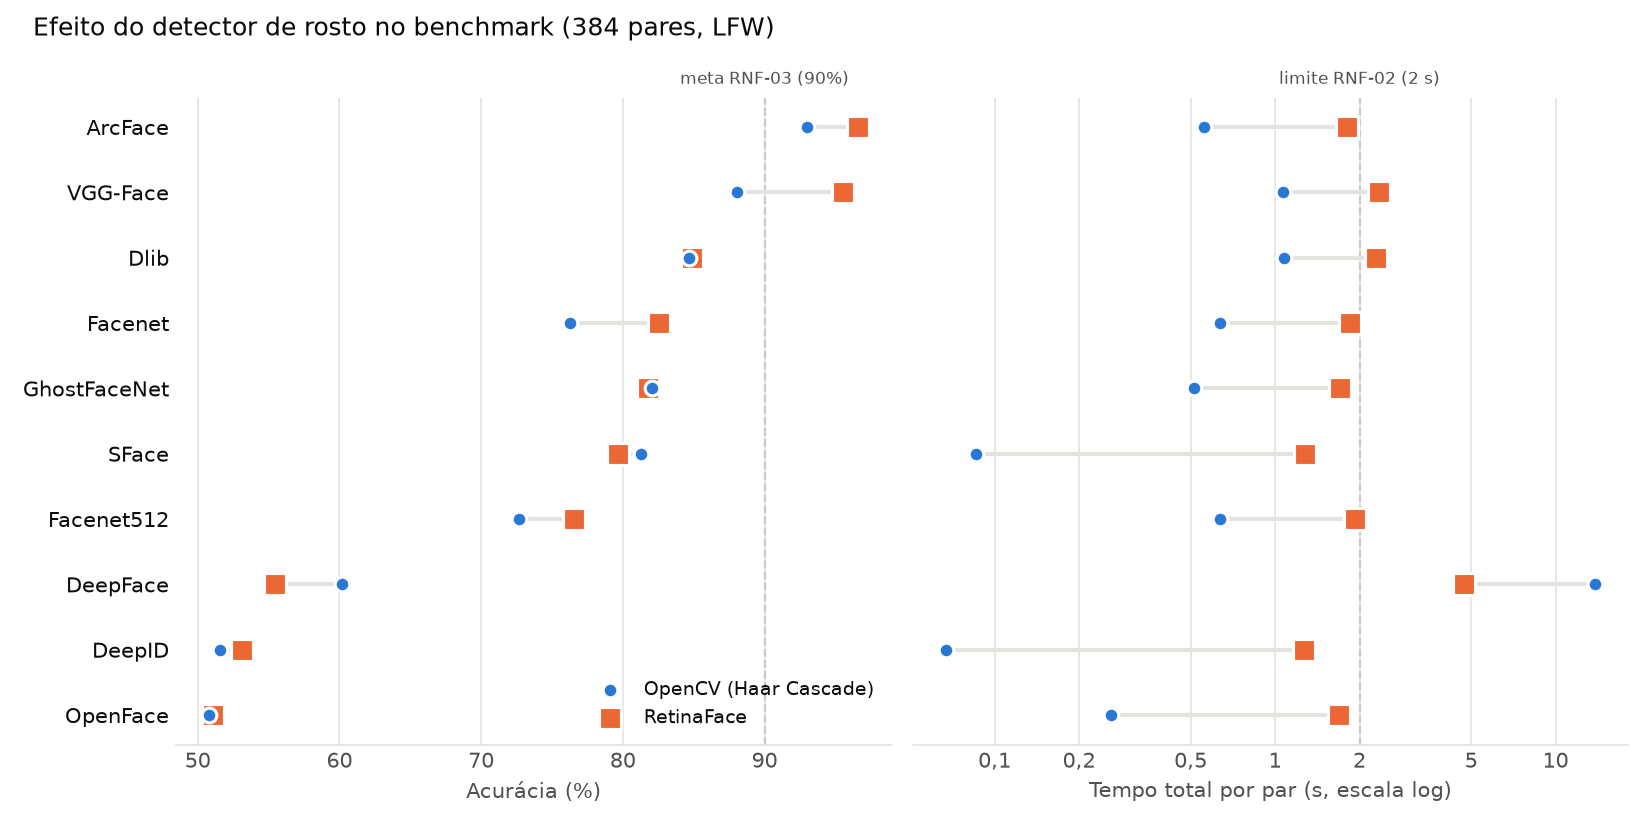
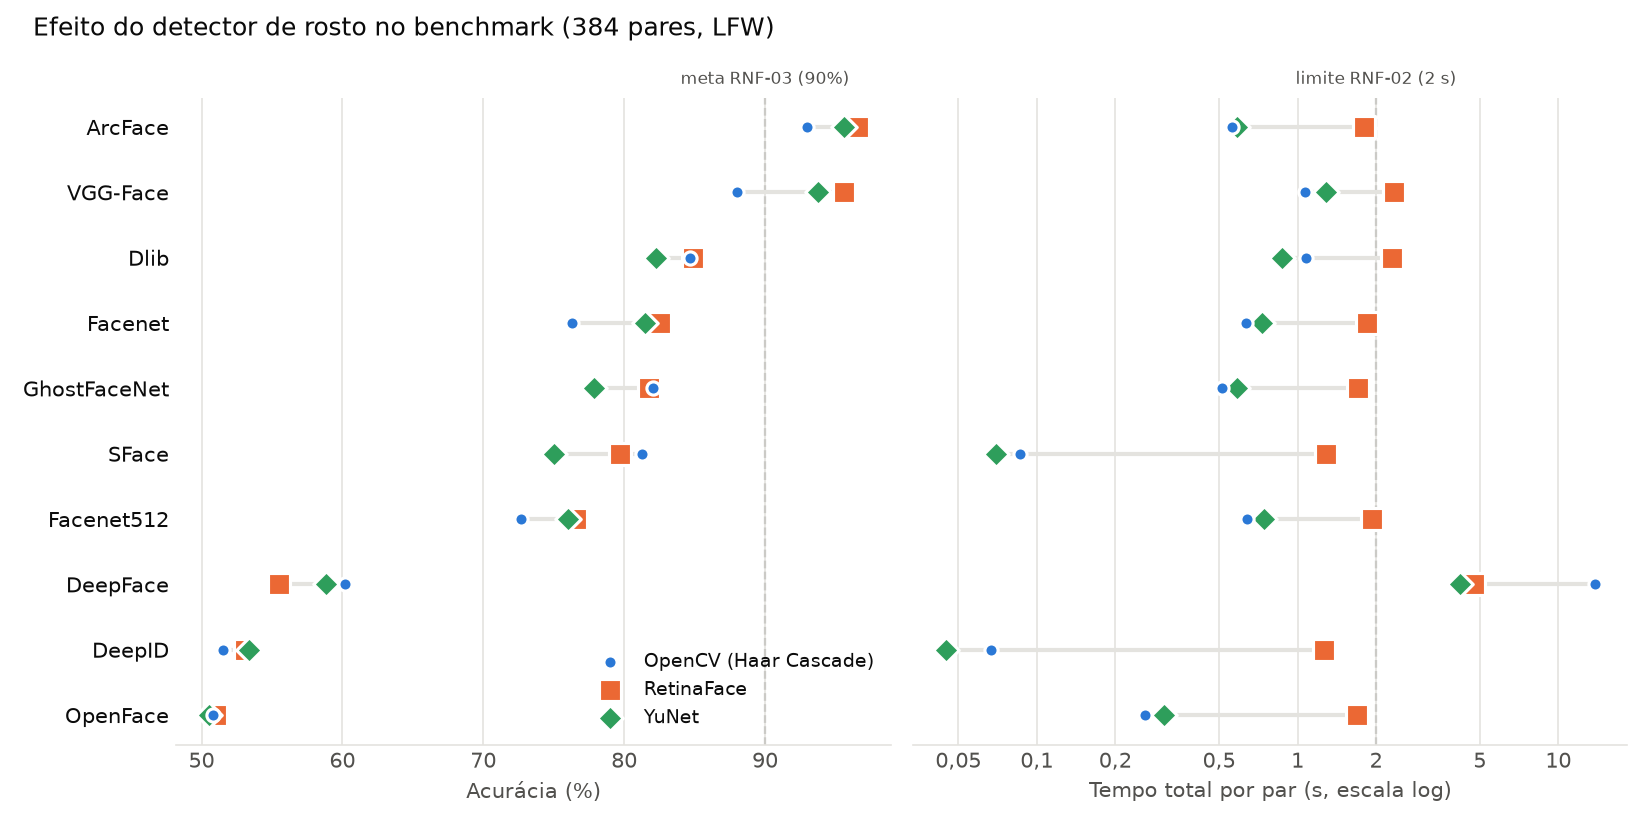
Testa o detector YuNet no benchmark e compara os três detectores
Com o limiar padrão do DeepFace (0,9), o YuNet perdia 10% dos rostos
porque o DeepFace põe uma borda preta de 50% em volta das fotos pequenas
do LFW. O script passa a usar 0,5, o valor do artigo do YuNet. A
comparação de detectores agora inclui o YuNet, e a rodada com 0,9 fica
guardada como registro.

diff --git a/pesquisa/comparar_detectores.py b/pesquisa/comparar_detectores.py
@@ -1,7 +1,7 @@
 """
-Comparacao de detectores de rosto (OpenCV x RetinaFace) no benchmark - TCC
+Comparacao de detectores de rosto (OpenCV x RetinaFace x YuNet) no benchmark - TCC
 
-Junta as rodadas feitas com --cache_deteccao (mesma metodologia para os dois
+Junta as rodadas feitas com --cache_deteccao (mesma metodologia para todos os
 detectores: deteccao uma vez por imagem, mesmos 384 pares do LFW, tempo de
 deteccao medido a parte) e gera, em pesquisa/resultados/:
     - benchmark_comparacao_detectores.csv -> uma linha por modelo, com
@@ -44,7 +44,13 @@ DETECTORES = {
         "benchmark_resultados_retinaface.csv",
         "benchmark_resultados_retinaface_deepface.csv",
     ),
+    "yunet": (
+        "benchmark_resultados_yunet.csv",
+        "benchmark_resultados_yunet_deepface.csv",
+    ),
 }
+# Detector que define a ordem dos modelos na tabela e no grafico.
+DETECTOR_ORDENACAO = "retinaface"
 SAIDA_CSV = PASTA_RESULTADOS / "benchmark_comparacao_detectores.csv"
 SAIDA_PNG = PASTA_RESULTADOS / "benchmark_comparacao_detectores.png"
 
@@ -55,9 +61,12 @@ LIMITE_TEMPO_S = 2.0  # RNF-02
 # O verify detecta as duas imagens do par.
 IMAGENS_POR_PAR = 2
 
-COR = {"opencv": "#2a78d6", "retinaface": "#eb6834"}
-MARCADOR = {"opencv": "o", "retinaface": "s"}
-ROTULO = {"opencv": "OpenCV (Haar Cascade)", "retinaface": "RetinaFace"}
+COR = {"opencv": "#2a78d6", "retinaface": "#eb6834", "yunet": "#2e9e5b"}
+MARCADOR = {"opencv": "o", "retinaface": "s", "yunet": "D"}
+ROTULO = {"opencv": "OpenCV (Haar Cascade)", "retinaface": "RetinaFace", "yunet": "YuNet"}
+# Marcadores maiores por baixo e menores por cima: quando os valores
+# coincidem, todos continuam visiveis. (tamanho, zorder)
+CAMADA = {"retinaface": (110, 3), "yunet": (75, 4), "opencv": (40, 5)}
 COR_TEXTO, COR_TEXTO_SECUNDARIO, COR_GRADE = "#0b0b0b", "#52514e", "#e4e3df"
 MARCAS_TEMPO_S = [0.05, 0.1, 0.2, 0.5, 1, 2, 5, 10, 20]
 
@@ -101,7 +110,7 @@ def montar_comparacao() -> "pd.DataFrame":
             )
         )
     comparacao = pd.concat(partes, axis=1).reset_index()
-    return comparacao.sort_values("acuracia_retinaface", ascending=False)
+    return comparacao.sort_values(f"acuracia_{DETECTOR_ORDENACAO}", ascending=False)
 
 
 def _estilizar_eixo(ax, titulo_x: str) -> None:
@@ -118,7 +127,7 @@ def gerar_grafico(comparacao: "pd.DataFrame", caminho: Path) -> None:
     import matplotlib.pyplot as plt
     from matplotlib.ticker import FixedLocator, FuncFormatter
 
-    comparacao = comparacao.sort_values("acuracia_retinaface")
+    comparacao = comparacao.sort_values(f"acuracia_{DETECTOR_ORDENACAO}")
     y = range(len(comparacao))
 
     fig, (ax1, ax2) = plt.subplots(1, 2, figsize=(11, 5.5), sharey=True, facecolor="white")
@@ -134,14 +143,14 @@ def gerar_grafico(comparacao: "pd.DataFrame", caminho: Path) -> None:
         ),
     ]
     for ax, campo, escala, titulo_x, referencia, rotulo_referencia in paineis:
-        a = comparacao[f"{campo}_opencv"] * escala
-        b = comparacao[f"{campo}_retinaface"] * escala
-        ax.hlines(y, a.clip(upper=b), a.clip(lower=b), color=COR_GRADE, linewidth=2, zorder=1)
-        # Quadrado maior por baixo e circulo menor por cima: quando os valores
-        # coincidem, os dois continuam visiveis.
-        for detector, valores, tamanho, z in (("opencv", a, 50, 4), ("retinaface", b, 110, 3)):
+        valores = comparacao[[f"{campo}_{d}" for d in DETECTORES]] * escala
+        ax.hlines(
+            y, valores.min(axis=1), valores.max(axis=1), color=COR_GRADE, linewidth=2, zorder=1
+        )
+        for detector in DETECTORES:
+            tamanho, z = CAMADA[detector]
             ax.scatter(
-                valores,
+                valores[f"{campo}_{detector}"],
                 y,
                 s=tamanho,
                 marker=MARCADOR[detector],

diff --git a/pesquisa/benchmark_reconhecimento_facial.py b/pesquisa/benchmark_reconhecimento_facial.py
@@ -52,6 +52,11 @@ USO (a partir da raiz do repositorio):
         --saida_csv pesquisa/resultados/benchmark_resultados_retinaface.csv \\
         --saida_png pesquisa/resultados/benchmark_resultados_retinaface.png
 
+    Com --detector_backend yunet, o limiar de confianca do YuNet cai para 0,5
+    (ver LIMIAR_CONFIANCA_YUNET). No Windows, ao redirecionar a saida para um
+    arquivo, defina PYTHONIOENCODING=utf-8: o aviso do DeepFace tem emoji e
+    derruba o script com UnicodeEncodeError na codificacao cp1252.
+
 ESTRUTURA ESPERADA DO DATASET (uma pasta por pessoa):
     pesquisa/dados/lfw/
         pessoa_01/
@@ -82,6 +87,7 @@ import itertools
 import json
 import logging
 import multiprocessing as mp
+import os
 import queue
 import random
 import time
@@ -153,6 +159,13 @@ INTERVALO_VERIFICACAO_S = 5.0
 
 # Arquivo, dentro da pasta do cache, com o tempo de deteccao de cada imagem.
 ARQUIVO_TEMPOS_DETECCAO = "tempos_deteccao.json"
+
+# Confianca minima do YuNet. O DeepFace usa 0,9, mas com align=True ele poe uma
+# borda preta de 50% em volta da imagem antes de detectar; nas fotos de 94x125
+# do LFW o rosto fica pequeno e o YuNet perde 10% deles (65 de 649). Com 0,5,
+# o valor usado no artigo do YuNet (Wu; Peng; Yu, 2023), nenhum se perde.
+LIMIAR_CONFIANCA_YUNET = 0.5
+VARIAVEL_LIMIAR_YUNET = "yunet_score_threshold"
 
 
 @dataclass(frozen=True)
@@ -337,6 +350,16 @@ def _desligar_ampliacao_retinaface() -> None:
         return detectar_original(*args, **{**kwargs, "allow_upscaling": False})
 
     RetinaFace.detect_faces = detectar_sem_ampliar
+
+
+def _ajustar_limiar_yunet() -> None:
+    """Baixa a confianca minima do YuNet, que o DeepFace so le de variavel de ambiente.
+
+    Os processos isolados de cada modelo herdam a variavel. Um valor ja definido
+    no ambiente e respeitado, para permitir repetir a rodada com outro limiar.
+    """
+    os.environ.setdefault(VARIAVEL_LIMIAR_YUNET, str(LIMIAR_CONFIANCA_YUNET))
+    logger.info("Limiar de confianca do YuNet: %s", os.environ[VARIAVEL_LIMIAR_YUNET])
 
 
 def preparar_cache_deteccao(
@@ -569,6 +592,8 @@ def main() -> None:
     )
 
     detector = args.detector_backend
+    if detector == "yunet":
+        _ajustar_limiar_yunet()
     tempo_deteccao = None
     if args.cache_deteccao is not None and detector != DETECTOR_SEM_DETECCAO:
         cache_dir = args.cache_deteccao or PASTA_CACHE_DETECCAO / detector

diff --git a/docs/benchmark_reconhecimento_facial.md b/docs/benchmark_reconhecimento_facial.md
@@ -2,7 +2,7 @@
 
 **Dataset:** LFW (Labeled Faces in the Wild), 96 pessoas com ≥15 fotos cada, baixado via `scikit-learn`.
 **Pares avaliados por modelo:** 384 (192 positivos / mesma pessoa + 192 negativos / pessoas diferentes).
-**Detector de rosto:** OpenCV (Haar Cascade) — o mais leve dos disponíveis, mais próximo do custo aceitável em Raspberry Pi/Hailo. Comparado com o RetinaFace na seção 7.
+**Detector de rosto:** OpenCV (Haar Cascade) — o mais leve dos disponíveis, mais próximo do custo aceitável em Raspberry Pi/Hailo. Comparado com o RetinaFace na seção 7 e com o YuNet na seção 8.
 **Ambiente:** `.venv/` dedicado (Python 3.13, DeepFace 0.0.101 + TensorFlow 2.21) para 9 dos 10 modelos, e um segundo ambiente `.venv_deepface_legacy/` (Python 3.10 + TensorFlow 2.12) só para o modelo "DeepFace" (Facebook), que exige TF ≤2.12.
 **Metodologia de tempo:** cada modelo roda em um **processo isolado** — ver seção 2 abaixo sobre por que isso importa.
 
@@ -74,7 +74,7 @@ Resultado: **60,94% de acurácia**, bem abaixo dos demais, e de longe o mais len
 1. **Ambiente duplicado:** agora há dois venvs no projeto — `.venv/` (Python 3.13, uso geral) e `.venv_deepface_legacy/` (Python 3.10, só para o modelo DeepFace/Facebook). Já documentado no README do projeto para quem for reproduzir.
 2. **`opencv-python` 5.0.0 (PyPI)** não inclui os arquivos de cascata Haar — mantenha fixado em `opencv-python==4.10.0.84` nos dois ambientes.
 3. **Reprodutibilidade do Dlib:** como foi compilado localmente (não é uma wheel oficial do PyPI), rodar em outra máquina exige repetir o processo de build (CMake + compilador C++ disponível). Se isso for um problema para a banca/reprodução, pode valer a pena excluir o Dlib do resultado final e manter só os 9 modelos com wheel oficial.
-4. ~~Ainda não testamos outro detector de rosto (`retinaface`/`yunet`).~~ **RetinaFace testado em 05/10/2026 — ver seção 7.** O YuNet ainda não foi testado.
+4. ~~Ainda não testamos outro detector de rosto (`retinaface`/`yunet`).~~ **RetinaFace testado em 05/10/2026 — ver seção 7. YuNet testado em 25/10/2026 — ver seção 8.**
 
 ---
 
@@ -87,7 +87,7 @@ Cruzando acurácia + tempo (agora medido corretamente, isolado) + tamanho, a dup
 
 **Atualização (seção 7):** com o detector RetinaFace, o VGG-Face também passa de 90% (95,57%) e o SFace não melhora (79,69%) — a dupla ArcFace + SFace precisa ser reavaliada antes de fechar a escolha dos 2 modelos.
 
-**Próximo passo recomendado:** repetir o benchmark com o detector `yunet` (leve, pensado para edge), para ver se ele chega perto da acurácia do RetinaFace com um custo de detecção menor.
+**Próximo passo recomendado:** ~~repetir o benchmark com o detector `yunet`~~ (feito em 25/10/2026, seção 8). Agora: calibrar o limiar de decisão de cada modelo priorizando a precisão (RNF-03) antes de fechar os 2 modelos.
 
 ---
 
@@ -120,3 +120,81 @@ Tempo total/par = tempo de reconhecimento do par + 2 × tempo de detecção por 
 - **O custo é o tempo:** o RetinaFace leva ~0,62 s por imagem em CPU, contra ~0,02 s do Haar. Com ele, o ArcFace vai a 1,80 s por par, perto do limite de 2 s do RNF-02 — medido no PC, sem o acelerador Hailo.
 
 **Nota de método:** a coluna "OpenCV" desta tabela vem da rodada com cache e não é idêntica à tabela da seção 1 (ex.: ArcFace 92,97% × 92,71%; SFace 0,041 s × 0,089 s de reconhecimento por par). Com o cache, o rosto é detectado **e alinhado** uma vez, e o tempo de reconhecimento é medido sem a detecção; na seção 1, o `DeepFace.verify` detecta as duas imagens a cada par. Para comparar detectores, use esta tabela; a da seção 1 continua valendo como a primeira rodada.
+
+---
+
+## 8. Terceira rodada: detector YuNet (25/10/2026)
+
+Mesma metodologia da seção 7: os mesmos 384 pares do LFW, `--cache_deteccao` (cada imagem é detectada e alinhada uma única vez) e cada modelo em um processo isolado. O YuNet é o detector padrão do OpenCV (`cv2.FaceDetectorYN`, modelo `face_detection_yunet_2023mar.onnx`), com 75.856 parâmetros.
+
+### 8.1 Desafio: o YuNet "perdia" 10% dos rostos dentro do DeepFace
+
+Na primeira tentativa, o YuNet devolveu **"nenhum rosto" em 65 das 649 imagens (10%)**. Com `enforce_detection=False`, o DeepFace usa a foto inteira no lugar do recorte, então esses pares eram comparados sem detecção nem alinhamento. O VGG-Face, por exemplo, caiu de 95,57% (RetinaFace) para 93,23%.
+
+**Investigação:**
+
+1. **O limiar sozinho não explicava.** O DeepFace usa confiança mínima de 0,9 para o YuNet, lida da variável de ambiente `yunet_score_threshold`. Mas, chamando o YuNet direto (fora do DeepFace) nas 65 imagens com o mesmo limiar de 0,9, ele achou o rosto em 64.
+2. **A diferença estava no pré-processamento do DeepFace.** Com `align=True`, `deepface/modules/detection.py` coloca uma **borda preta de 50% da altura e da largura** em volta da imagem antes de detectar. O objetivo é que o rosto não saia do quadro quando é girado no alinhamento. Nas fotos do LFW, que têm só 94×125 px, o rosto passa a ocupar uma fração bem menor do quadro e a confiança do YuNet cai abaixo de 0,9.
+3. **Teste isolado nas 65 imagens que falharam:**
+
+| | Limiar 0,9 | Limiar 0,5 |
+|---|---|---|
+| Sem a borda | 64/65 detectadas | 65/65 |
+| Com a borda do DeepFace | **3/65** | **65/65** |
+
+**Solução:** o script passou a usar **limiar de 0,5 para o YuNet**. Esse é o valor usado no artigo do YuNet (Wu; Peng; Yu, 2023), e com ele nenhum rosto se perde. O valor fica na constante `LIMIAR_CONFIANCA_YUNET` de [benchmark_reconhecimento_facial.py](../pesquisa/benchmark_reconhecimento_facial.py), que define a variável de ambiente antes da detecção; os processos isolados de cada modelo a herdam. Se a variável já estiver definida no ambiente, o valor dela é respeitado, para permitir repetir a rodada com outro limiar. Baixar o limiar não traz rostos falsos para o recorte, porque o script fica só com o rosto de maior área de cada imagem.
+
+**Por que isso importa para o TCC:**
+
+- **É um efeito da combinação biblioteca + imagem pequena, não do YuNet.** O mesmo pode acontecer no dispositivo se a câmera entregar quadros pequenos ou se o rosto ocupar pouco do quadro. O adaptador definitivo deve chamar o YuNet direto (sem a borda do DeepFace) e ter o limiar na configuração, como manda a seção 5 de [arquitetura.md](arquitetura.md).
+- **O DeepFace troca "nenhum rosto" pela imagem inteira sem avisar.** Com `enforce_detection=False`, a falha só apareceu porque contamos os recortes do mesmo tamanho da foto original. Vale registrar na monografia quantas imagens ficaram sem rosto em cada detector.
+- É o mesmo tipo de problema já visto com o RetinaFace: um padrão da biblioteca que não combina com as fotos pequenas do LFW (a ampliação até 1024 px, desligada na rodada da seção 7).
+
+**Problema menor no caminho:** com a saída redirecionada para arquivo no Windows, o Python usa a codificação cp1252, e o aviso do DeepFace com emoji derruba o script com `UnicodeEncodeError` antes de começar. Resolve-se definindo `PYTHONIOENCODING=utf-8` (ou `PYTHONUTF8=1`) antes de rodar.
+
+### 8.2 Rodada descartada (limiar 0,9)
+
+Guardada só como registro do problema, em [benchmark_resultados_yunet_limiar09.csv](../pesquisa/resultados/benchmark_resultados_yunet_limiar09.csv). Não entra na comparação entre detectores. O DeepFace (Facebook) não foi rodado nessa configuração.
+
+| Modelo | Acurácia | Recall | Reconhecimento/par (s) |
+|---|---|---|---|
+| ArcFace | 94,53% | 90,62% | 0,622 |
+| VGG-Face | 93,23% | 90,10% | 1,498 |
+| Dlib | 82,29% | 66,67% | 0,953 |
+| Facenet | 82,03% | 64,06% | 0,726 |
+| GhostFaceNet | 76,82% | 54,69% | 0,519 |
+| SFace | 76,04% | 53,12% | 0,038 |
+| Facenet512 | 75,78% | 51,56% | 0,727 |
+| DeepID | 53,65% | 9,38% | 0,027 |
+| OpenFace | 50,52% | 1,04% | 0,253 |
+
+Detecção: 0,022 s por imagem em média (mediana de 0,012 s), contra 0,618 s do RetinaFace.
+
+### 8.3 Resultados com limiar 0,5: comparação dos três detectores
+
+Com o limiar de 0,5, só 3 das 649 imagens (0,5%) ficaram sem rosto, contra 65 com 0,9. Os 10 modelos rodaram sem nenhum erro; o DeepFace (Facebook) rodou no ambiente legado sobre o mesmo cache.
+
+| Modelo | Acurácia OpenCV | Acurácia RetinaFace | Acurácia YuNet | Recall YuNet | Tempo total/par OpenCV (s) | Tempo total/par RetinaFace (s) | Tempo total/par YuNet (s) |
+|---|---|---|---|---|---|---|---|
+| **ArcFace** | 92,97% | **96,61%** | 95,57% | 92,19% | 0,559 | 1,804 | 0,586 |
+| VGG-Face | 88,02% | 95,57% | 93,75% | 91,15% | 1,064 | 2,340 | 1,286 |
+| Dlib | 84,64% | 84,90% | 82,29% | 67,19% | 1,078 | 2,297 | 0,868 |
+| Facenet | 76,30% | 82,55% | 81,51% | 63,02% | 0,635 | 1,848 | 0,732 |
+| GhostFaceNet | 82,03% | 81,77% | 77,86% | 56,77% | 0,515 | 1,706 | 0,586 |
+| SFace | 81,25% | 79,69% | 75,00% | 51,56% | 0,086 | 1,280 | **0,070** |
+| Facenet512 | 72,66% | 76,56% | 76,04% | 52,08% | 0,638 | 1,922 | 0,745 |
+| DeepFace (Facebook) | 60,16% | 55,47% | 58,85% | 39,58% | 13,828 | 4,733 | 4,215 |
+| DeepID | 51,56% | 53,12% | 53,39% | 8,85% | 0,067 | 1,263 | 0,045 |
+| OpenFace | 50,78% | 51,04% | 50,52% | 1,04% | 0,261 | 1,695 | 0,307 |
+
+Tempo de detecção por imagem: **0,0074 s com YuNet**, 0,0225 s com OpenCV (Haar) e 0,6184 s com RetinaFace. CSV completo: [benchmark_resultados_yunet.csv](../pesquisa/resultados/benchmark_resultados_yunet.csv) e [benchmark_comparacao_detectores.csv](../pesquisa/resultados/benchmark_comparacao_detectores.csv) · Gráfico: [benchmark_comparacao_detectores.png](../pesquisa/resultados/benchmark_comparacao_detectores.png). O script [comparar_detectores.py](../pesquisa/comparar_detectores.py) passou a juntar os três detectores.
+
+**Leitura:**
+
+- **O YuNet é o detector mais rápido dos três:** cerca de 3 vezes mais rápido que o Haar e 80 vezes mais rápido que o RetinaFace, no PC. Isso confirma o que a literatura indicava.
+- **Para ArcFace e VGG-Face, o YuNet chega perto do RetinaFace:** o ArcFace fica 1 ponto abaixo (95,57% × 96,61%) e o VGG-Face, 1,8 ponto. Os dois continuam acima da meta de 90% (RNF-03). O tempo total do ArcFace cai de 1,80 s para 0,59 s por par, bem longe do limite de 2 s (RNF-02).
+- **Para SFace, GhostFaceNet e Dlib, o YuNet é o pior dos três detectores** (SFace: 75,00% contra 81,25% com Haar). Uma hipótese é a diferença no recorte e no alinhamento: cada detector devolve uma caixa e pontos do rosto um pouco diferentes, e o limiar de decisão padrão do DeepFace para cada modelo não foi ajustado para esses recortes. A precisão continua alta e o recall baixo, o mesmo padrão das rodadas anteriores. Por isso, só a calibração do limiar (M2 de [lacunas_revisao_bibliografica.md](lacunas_revisao_bibliografica.md)) vai dizer se a diferença é do detector ou do limiar.
+- **DeepID e OpenFace seguem perto de 50%** com qualquer detector, e o **DeepFace (Facebook)** continua o pior custo-benefício.
+- **As diferenças pequenas não são conclusivas:** com 384 pares, a margem de erro fica em cerca de ±2 pontos (M6), então ArcFace com YuNet e com RetinaFace estão empatados estatisticamente.
+
+**Conclusão parcial:** a combinação **YuNet + ArcFace** é a que melhor atende aos dois requisitos ao mesmo tempo nesta amostra: 95,57% de acurácia e 0,59 s por par no PC. O RetinaFace só se justificaria se as condições do ônibus derrubarem a detecção do YuNet. A escolha dos 2 modelos ainda depende da calibração do limiar, que pode mudar a posição de SFace e GhostFaceNet.

diff --git a/docs/lacunas_revisao_bibliografica.md b/docs/lacunas_revisao_bibliografica.md
@@ -78,7 +78,7 @@ A banca espera que cada modelo testado seja citado pelo seu artigo original. Hoj
 
 - **M1. Protocolo do LFW.** A literatura usa o protocolo oficial: 6.000 pares em 10 partes, com o limiar ajustado em 9 partes e testado na décima. O benchmark usou 384 pares e o limiar padrão do DeepFace. Por isso os números (51–93%) **não podem ser comparados diretamente** com os da literatura (99,0–99,7%). Opções: (a) refazer o teste no protocolo oficial; ou (b) manter os 384 pares e deixar claro no texto que é um protocolo próprio, sem comparar números absolutos.
 - **M2. Limiar de decisão.** A precisão de 100% com recall baixo (SFace, GhostFaceNet, FaceNet, OpenFace) indica um limiar conservador demais para este procedimento de teste. Calibre o limiar e reporte também métricas que não dependem dele (curva ROC e EER), como fazem DGFaceNet, ELANet e Jha (2024).
-- **M3. Detector e alinhamento.** O Haar sem alinhamento é a explicação mais provável da distância de cerca de 11 pontos entre ArcFace e SFace. Na literatura, essa distância fica abaixo de 0,5 ponto. Refaça com YuNet ou RetinaFace, com alinhamento, antes de concluir qual modelo é melhor. *Atualização (05/10/2026): feito com RetinaFace, com alinhamento — a distância **aumentou** para cerca de 17 pontos (ArcFace 96,61% × SFace 79,69%; ver seção 7 do relatório do benchmark). O detector não explica a diferença; o limiar (M2) passa a ser o suspeito principal. YuNet ainda não testado.*
+- **M3. Detector e alinhamento.** O Haar sem alinhamento é a explicação mais provável da distância de cerca de 11 pontos entre ArcFace e SFace. Na literatura, essa distância fica abaixo de 0,5 ponto. Refaça com YuNet ou RetinaFace, com alinhamento, antes de concluir qual modelo é melhor. *Atualização (05/10/2026): feito com RetinaFace, com alinhamento — a distância **aumentou** para cerca de 17 pontos (ArcFace 96,61% × SFace 79,69%; ver seção 7 do relatório do benchmark). O detector não explica a diferença; o limiar (M2) passa a ser o suspeito principal. Atualização (25/10/2026): YuNet testado com alinhamento; ArcFace 95,57% × SFace 75,00%, distância de cerca de 20 pontos. O limiar continua o suspeito principal (seção 8 do relatório).*
 - **M4. Hardware do teste de tempo.** Os tempos foram medidos no PC, não no Raspberry Pi com Hailo. Os artigos medem no próprio dispositivo (Lv: Raspberry Pi, NCS e TX2; DGFaceNet: embarcado; Surantha: Raspberry Pi). Ou meça no hardware real, ou deixe claro que os tempos são relativos entre os modelos.
 - **M5. Tempo por par × por quadro.** O relatório mede segundos por par (dois rostos). A literatura costuma usar milissegundos por imagem ou quadros por segundo (FN8). Converta, ou explique a unidade.
 - **M6. Amostra.** Com 96 pessoas e 384 pares, uma diferença de 1 ponto vale cerca de 4 pares. Informe o intervalo de confiança ou o desvio entre as 10 partes antes de afirmar que um modelo é melhor que outro.

diff --git a/docs/revisao_bibliografica.md b/docs/revisao_bibliografica.md
@@ -95,7 +95,7 @@ Os 10 algoritmos de reconhecimento (segunda etapa do pipeline, depois da detecç
 
 **Achado metodológico relevante:** o `DeepFace` (a biblioteca) nunca libera da memória um modelo já carregado, então medir o tempo de inferência de vários modelos no mesmo processo Python distorce os resultados dos últimos da fila (chegou a fazer o SFace parecer 47x mais lento do que é). O script de benchmark foi corrigido para isolar cada modelo em um processo separado.
 
-**Detector — RetinaFace testado (05/10/2026):** o benchmark foi repetido com `retinaface` no lugar do `opencv`/Haar Cascade (seção 4). ArcFace (96,61%) e VGG-Face (95,57%) passam a superar a meta de 90%; Facenet/Facenet512 melhoram um pouco; SFace, GhostFaceNet e Dlib não mudam, e DeepID/OpenFace continuam perto de 50%. O preço é o tempo: ~0,62 s de detecção por imagem em CPU, contra ~0,02 s do Haar. Detalhes na seção 7 do [relatório](benchmark_reconhecimento_facial.md). **Ainda pendente:** testar o `yunet`.
+**Detector — RetinaFace testado (05/10/2026):** o benchmark foi repetido com `retinaface` no lugar do `opencv`/Haar Cascade (seção 4). ArcFace (96,61%) e VGG-Face (95,57%) passam a superar a meta de 90%; Facenet/Facenet512 melhoram um pouco; SFace, GhostFaceNet e Dlib não mudam, e DeepID/OpenFace continuam perto de 50%. O preço é o tempo: ~0,62 s de detecção por imagem em CPU, contra ~0,02 s do Haar. Detalhes na seção 7 do [relatório](benchmark_reconhecimento_facial.md). **Detector — YuNet testado (25/10/2026):** com limiar de confiança 0,5 (o padrão 0,9 do DeepFace perdia 10% dos rostos nas fotos pequenas do LFW), o ArcFace chega a 95,57% e o VGG-Face a 93,75%, perto do RetinaFace, com detecção de ~0,007 s por imagem (80 vezes mais rápido). SFace, GhostFaceNet e Dlib ficam 3–6 pontos abaixo do Haar. Detalhes na seção 8 do [relatório](benchmark_reconhecimento_facial.md).
 
 **Algoritmos citados na literatura mas fora do benchmark empírico:**
 - MobileFaceNet e InsightFace/Buffalo_L — variantes/origem do próprio ArcFace já testado, não algoritmos concorrentes distintos.
